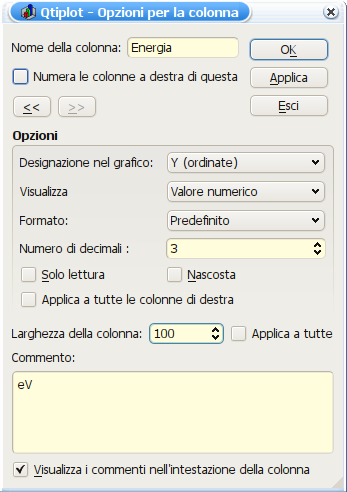
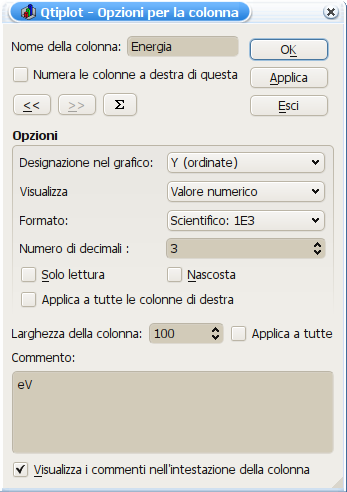
- Updated docbook-it, pics-it and ..it.ts svn 2308
git-svn-id: http://svn.berlios.de/svnroot/repos/qtiplot/trunk@2309 5a6a7de5-fb12-0410-b871-c33778c25c60

diff --git a/qtiplot/translations/qtiplot_it.ts b/qtiplot/translations/qtiplot_it.ts
@@ -3855,7 +3855,7 @@ Attenzione: questo modificherà la disposizione di quelle già esistenti! </tran
         <location filename="../src/core/ApplicationWindow.cpp" line="14409"/>
         <location filename="../src/core/ApplicationWindow.cpp" line="15206"/>
         <source>3D &amp;Wire Frame</source>
-        <translation>&amp;Rete 3D</translation>
+        <translation>&amp;Reticolo 3D</translation>
     </message>
     <message>
         <location filename="../src/core/ApplicationWindow.cpp" line="14412"/>
@@ -3867,7 +3867,7 @@ Attenzione: questo modificherà la disposizione di quelle già esistenti! </tran
         <location filename="../src/core/ApplicationWindow.cpp" line="14415"/>
         <location filename="../src/core/ApplicationWindow.cpp" line="15208"/>
         <source>3D &amp;Polygons</source>
-        <translation>P&amp;oligoni 3D</translation>
+        <translation>&amp;Superficie 3D</translation>
     </message>
     <message>
         <location filename="../src/core/ApplicationWindow.cpp" line="14418"/>
@@ -5125,7 +5125,7 @@ Attenzione: questo modificherà la disposizione di quelle già esistenti! </tran
         <location filename="../src/core/ApplicationWindow.cpp" line="15407"/>
         <location filename="../src/core/ApplicationWindow.cpp" line="15408"/>
         <source>Wireframe</source>
-        <translation>Rete 3D</translation>
+        <translation>Reticolo 3D</translation>
     </message>
     <message>
         <location filename="../src/core/ApplicationWindow.cpp" line="15409"/>
@@ -12185,7 +12185,7 @@ Discrepanza tra i dati e il modello di stima</translation>
     <message>
         <location filename="../src/analysis/dialogs/GriddingDialog.cpp" line="165"/>
         <source>Wireframe</source>
-        <translation>Rete 3D</translation>
+        <translation>Reticolo 3D</translation>
     </message>
     <message>
         <location filename="../src/analysis/dialogs/GriddingDialog.cpp" line="166"/>
@@ -14094,7 +14094,7 @@ stesso numero di righe.</translation>
     <message>
         <location filename="../src/matrix/MatrixDialog.cpp" line="81"/>
         <source>Open Set Values Dialog</source>
-        <translation type="unfinished"></translation>
+        <translation>Apri il dialogo Valori</translation>
     </message>
     <message>
         <location filename="../src/matrix/MatrixDialog.cpp" line="85"/>
@@ -14279,63 +14279,63 @@ stesso numero di righe.</translation>
     <message>
         <location filename="../src/matrix/MatrixSizeDialog.cpp" line="70"/>
         <source>First</source>
-        <translation>Prima</translation>
+        <translation>Primo</translation>
     </message>
     <message>
         <location filename="../src/matrix/MatrixSizeDialog.cpp" line="81"/>
         <source>Last</source>
-        <translation>Ultima</translation>
+        <translation>Ultimo</translation>
     </message>
     <message>
         <location filename="../src/matrix/MatrixSizeDialog.cpp" line="91"/>
         <source>xy &amp;Mapping</source>
-        <translation type="unfinished"></translation>
+        <translation>&amp;Valori XY</translation>
     </message>
     <message>
         <location filename="../src/matrix/MatrixSizeDialog.cpp" line="95"/>
         <location filename="../src/matrix/MatrixSizeDialog.cpp" line="111"/>
         <location filename="../src/matrix/MatrixSizeDialog.cpp" line="127"/>
         <source>Long Name</source>
-        <translation type="unfinished"></translation>
+        <translation>Nome esteso</translation>
     </message>
     <message>
         <location filename="../src/matrix/MatrixSizeDialog.cpp" line="98"/>
         <location filename="../src/matrix/MatrixSizeDialog.cpp" line="114"/>
         <location filename="../src/matrix/MatrixSizeDialog.cpp" line="130"/>
         <source>Units</source>
-        <translation type="unfinished"></translation>
+        <translation>Unità</translation>
     </message>
     <message>
         <location filename="../src/matrix/MatrixSizeDialog.cpp" line="101"/>
         <location filename="../src/matrix/MatrixSizeDialog.cpp" line="117"/>
         <location filename="../src/matrix/MatrixSizeDialog.cpp" line="133"/>
         <source>Comments</source>
-        <translation type="unfinished"></translation>
+        <translation>Commenti</translation>
     </message>
     <message>
         <location filename="../src/matrix/MatrixSizeDialog.cpp" line="107"/>
         <source>&amp;x Labels</source>
-        <translation type="unfinished"></translation>
+        <translation>Etichetta &amp;X</translation>
     </message>
     <message>
         <location filename="../src/matrix/MatrixSizeDialog.cpp" line="123"/>
         <source>&amp;y Labels</source>
-        <translation type="unfinished"></translation>
+        <translation>Etichetta &amp;Y</translation>
     </message>
     <message>
         <location filename="../src/matrix/MatrixSizeDialog.cpp" line="139"/>
         <source>&amp;z Labels</source>
-        <translation type="unfinished"></translation>
+        <translation>Etichetta &amp;Z</translation>
     </message>
     <message>
         <location filename="../src/matrix/MatrixSizeDialog.cpp" line="158"/>
         <source>Open Properties Dialog</source>
-        <translation type="unfinished"></translation>
+        <translation>Apri il dialogo Proprietà</translation>
     </message>
     <message>
         <location filename="../src/matrix/MatrixSizeDialog.cpp" line="164"/>
         <source>Open Set Values Dialog</source>
-        <translation type="unfinished"></translation>
+        <translation>Apri il dialogo Valori</translation>
     </message>
     <message>
         <location filename="../src/matrix/MatrixSizeDialog.cpp" line="168"/>
@@ -14360,47 +14360,47 @@ stesso numero di righe.</translation>
     <message>
         <location filename="../src/matrix/MatrixSizeDialog.cpp" line="239"/>
         <source>Set X Axis Label</source>
-        <translation type="unfinished"></translation>
+        <translation>Imposta l&apos;etichetta dell&apos;asse X</translation>
     </message>
     <message>
         <location filename="../src/matrix/MatrixSizeDialog.cpp" line="244"/>
         <source>Set X Axis Unit</source>
-        <translation type="unfinished"></translation>
+        <translation>Imposta l&apos;unità dell&apos;asse X</translation>
     </message>
     <message>
         <location filename="../src/matrix/MatrixSizeDialog.cpp" line="248"/>
         <source>Set X Axis Comment</source>
-        <translation type="unfinished"></translation>
+        <translation>Imposta il commento dell&apos;asse X</translation>
     </message>
     <message>
         <location filename="../src/matrix/MatrixSizeDialog.cpp" line="253"/>
         <source>Set Y Axis Label</source>
-        <translation type="unfinished"></translation>
+        <translation>Imposta l&apos;etichetta dell&apos;asse Y</translation>
     </message>
     <message>
         <location filename="../src/matrix/MatrixSizeDialog.cpp" line="258"/>
         <source>Set Y Axis Unit</source>
-        <translation type="unfinished"></translation>
+        <translation>Imposta l&apos;unità dell&apos;asse Y</translation>
     </message>
     <message>
         <location filename="../src/matrix/MatrixSizeDialog.cpp" line="262"/>
         <source>Set Y Axis Comment</source>
-        <translation type="unfinished"></translation>
+        <translation>Imposta il commento dell&apos;asse Y</translation>
     </message>
     <message>
         <location filename="../src/matrix/MatrixSizeDialog.cpp" line="267"/>
         <source>Set Z Axis Label</source>
-        <translation type="unfinished"></translation>
+        <translation>Imposta l&apos;etichetta dell&apos;asse Z</translation>
     </message>
     <message>
         <location filename="../src/matrix/MatrixSizeDialog.cpp" line="272"/>
         <source>Set Z Axis Unit</source>
-        <translation type="unfinished"></translation>
+        <translation>Imposta l&apos;unità dell&apos;asse Z</translation>
     </message>
     <message>
         <location filename="../src/matrix/MatrixSizeDialog.cpp" line="276"/>
         <source>Set Z Axis Comment</source>
-        <translation type="unfinished"></translation>
+        <translation>Imposta il commento dell&apos;asse Z</translation>
     </message>
 </context>
 <context>
@@ -14444,7 +14444,7 @@ stesso numero di righe.</translation>
     <message>
         <location filename="../src/matrix/MatrixValuesDialog.cpp" line="119"/>
         <source>Open Properties Dialog</source>
-        <translation type="unfinished"></translation>
+        <translation>Apri il dialogo Proprietà</translation>
     </message>
     <message>
         <location filename="../src/matrix/MatrixValuesDialog.cpp" line="122"/>
@@ -19026,7 +19026,7 @@ Per x&lt;0 ci sono due rami di valori reali; questa funzione calcola quello in c
     <message>
         <location filename="../src/table/SetColValuesDialog.cpp" line="94"/>
         <source>Open Properties Dialog</source>
-        <translation type="unfinished"></translation>
+        <translation>Apri il dialogo Proprietà</translation>
     </message>
     <message>
         <location filename="../src/table/SetColValuesDialog.cpp" line="98"/>
@@ -20087,7 +20087,7 @@ Per x&lt;0 ci sono due rami di valori reali; questa funzione calcola quello in c
     <message>
         <location filename="../src/table/TableDialog.cpp" line="71"/>
         <source>Open Set Values Dialog</source>
-        <translation type="unfinished"></translation>
+        <translation>Apri il dialogo Valori</translation>
     </message>
     <message>
         <location filename="../src/table/TableDialog.cpp" line="91"/>
